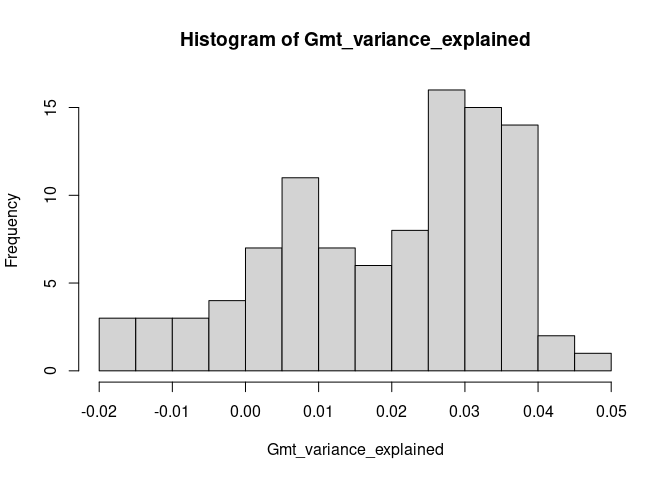
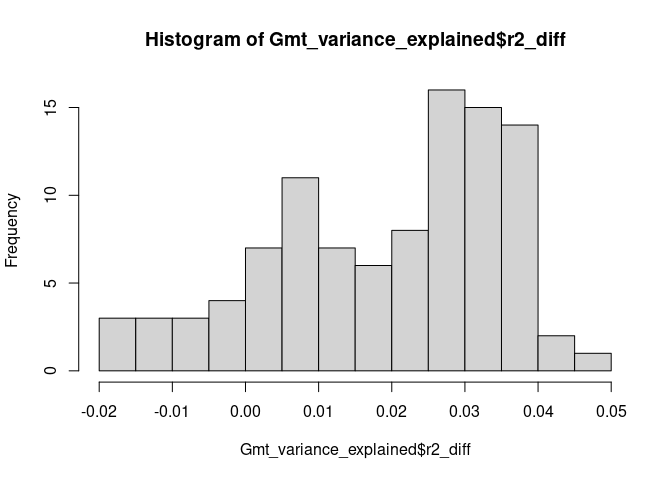
omicsR2 now outputs the R2 for the baseline and full model, not just the difference. Furthermore, added option to specify number of cores to be used during analysis.

Changed region(s): [[0.2188, 0.0625, 0.8438, 0.125], [0.3438, 0.9062, 0.7188, 0.9688]]

diff --git a/README.md b/README.md
@@ -59,6 +59,11 @@ library(BGData)
 #> Loading required package: BEDMatrix
 #> Loading required package: LinkedMatrix
 #> Loading required package: symDMatrix
+#> 
+#> Attaching package: 'BGData'
+#> The following object is masked from 'package:graphics':
+#> 
+#>     segments
 
 # Load omicsR2 package for GREML analysis
 library(omicsR2)
@@ -140,14 +145,14 @@ Gmt_variance_explained <- omicsR2(outcome = "outcome",
  validation_proportion = 0.2, repetitions = 100, seed = 20190405)
 
 # Examine the variance explained distribution obtained from cross-validation
-head(Gmt_variance_explained)
+head(Gmt_variance_explained$r2_diff)
 #> [1]  0.007 -0.007  0.030  0.037  0.035  0.024
-mean(Gmt_variance_explained)
+mean(Gmt_variance_explained$r2_diff)
 #> [1] 0.01966
-quantile(Gmt_variance_explained)
+quantile(Gmt_variance_explained$r2_diff)
 #>       0%      25%      50%      75%     100% 
 #> -0.02000  0.00875  0.02400  0.03200  0.04800
-hist(Gmt_variance_explained, breaks = 10)
+hist(Gmt_variance_explained$r2_diff, breaks = 10)
 ```
 
 <img src="man/figures/README-example-1.png" width="100%" />
